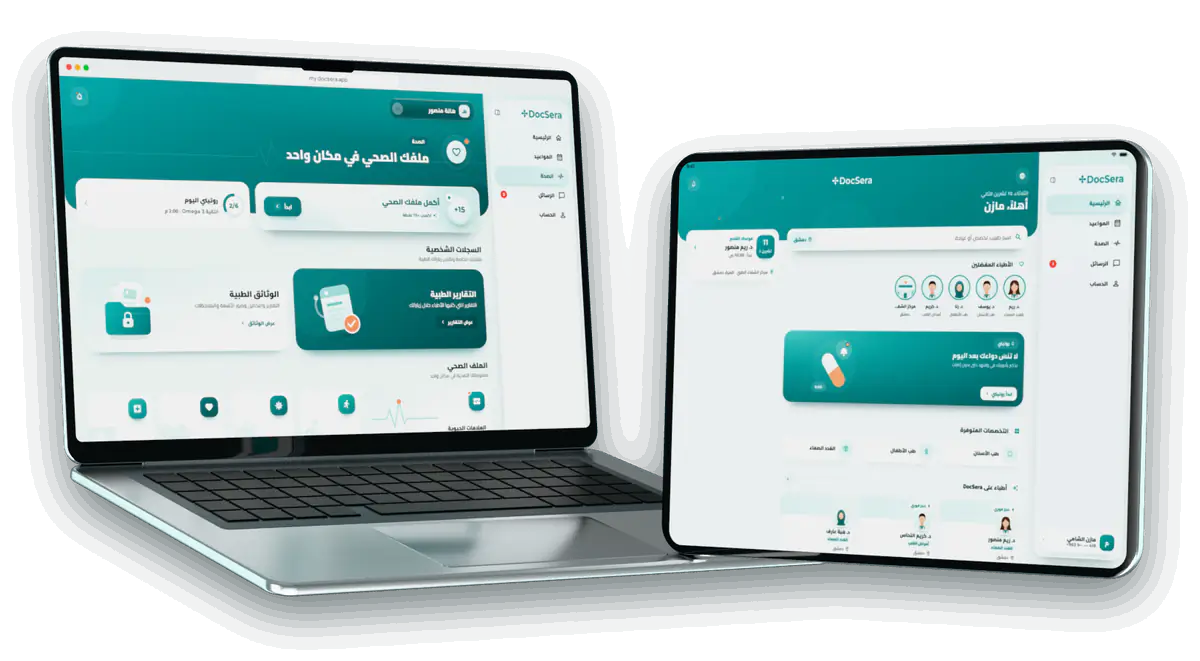
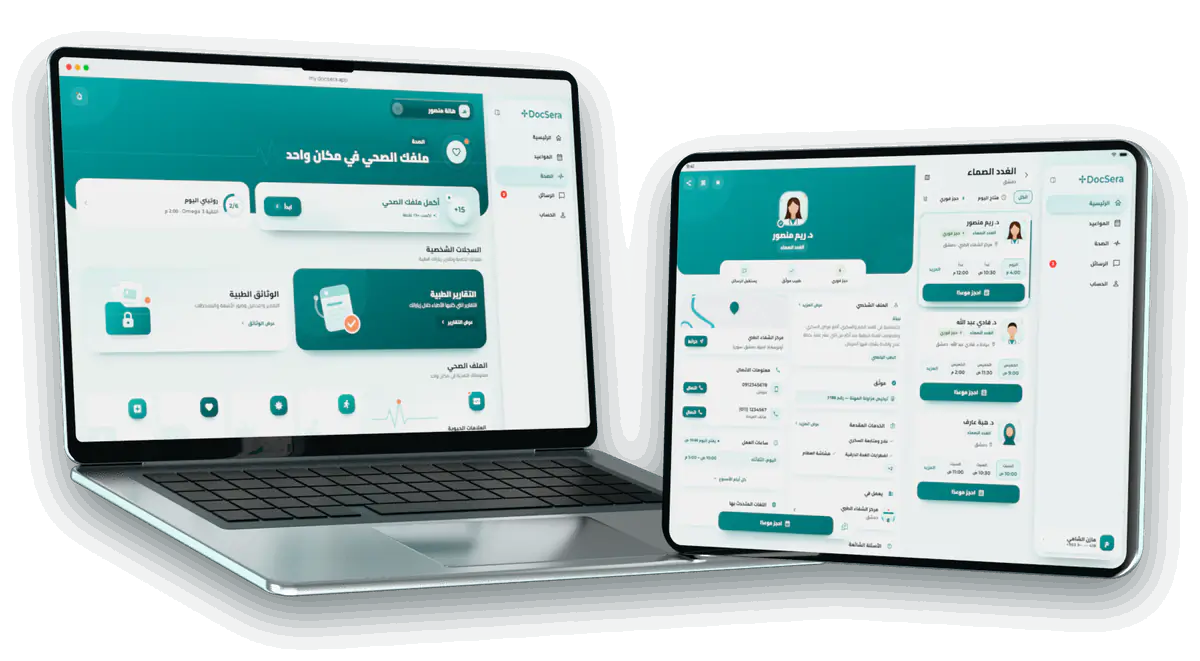
feat(home): iPad shows search beside a doctor; the try-it phone scrolls real full-length pages

diff --git a/src/scripts/home/boot.ts b/src/scripts/home/boot.ts
@@ -295,33 +295,89 @@ function startStory(): void {
 function startTry(): void {
 	const root = q('[data-try]');
 	if (!root) return;
-	const tabs = qa<HTMLButtonElement>('[data-tab]', root), shots = qa<HTMLImageElement>('[data-try-shot]', root);
-	const load = (i: number) => {
-		const s = shots[(i + shots.length) % shots.length];
-		if (s?.dataset.src) { s.src = s.dataset.src; s.removeAttribute('data-src'); }
+	const tabs = qa<HTMLButtonElement>('[data-tab]', root), pages = qa<HTMLElement>('[data-try-shot]', root);
+	const phone = root.querySelector<HTMLElement>('[data-try-phone]'), hint = root.querySelector<HTMLElement>('[data-try-hint]');
+	const status = root.querySelector<HTMLImageElement>('img[data-status]');
+	if (!phone || !hint || !pages.length) return;
+	const scrollers = pages.map((p) => p.querySelector<HTMLElement>('[data-pg-scroll]')!);
+	const n = pages.length;
+	// The first screen of a page comes with the tab; its full length only once the visitor takes the phone.
+	const load = (i: number) => pages[(i + n) % n].querySelectorAll<HTMLImageElement>('img[data-src]').forEach((img) => {
+		img.src = img.dataset.src || '';
+		img.removeAttribute('data-src');
+	});
+	const loadFull = (i: number) => {
+		const img = pages[i].querySelector<HTMLImageElement>('img[data-full]');
+		if (!img) return;
+		img.addEventListener('load', () => img.classList.add('in'), { once: true });
+		img.src = img.dataset.full || '';
+		img.removeAttribute('data-full');
 	};
-	let cur = 0, timer = 0, auto = true;
+	let cur = 0, timer = 0, auto = true, engaged = false, hinted = false, inView = false, canScroll = false;
+	const refreshHint = () => hint.classList.toggle('show', inView && !hinted && pages[cur].dataset.long === '1');
+	const engage = () => {
+		if (!engaged && status?.dataset.status) { status.src = status.dataset.status; status.removeAttribute('data-status'); }
+		engaged = true;
+		auto = false;
+		clearInterval(timer);
+		loadFull(cur);
+	};
 	const show = (i: number, scroll = false) => {
 		cur = i;
 		load(i); load(i + 1);
-		shots.forEach((s, k) => s.classList.toggle('on', k === i));
+		if (engaged) loadFull(i);
+		scrollers[i].scrollTop = 0;
+		phone.classList.remove('scrolled');
+		pages.forEach((p, k) => p.classList.toggle('on', k === i));
+		scrollers.forEach((s, k) => { s.tabIndex = k === i ? 0 : -1; });
 		tabs.forEach((t, k) => {
 			t.classList.toggle('on', k === i);
 			t.setAttribute('aria-pressed', String(k === i));
 		});
+		refreshHint();
 		if (scroll) {
 			const bar = tabs[i].parentElement!;
 			bar.scrollTo({ left: tabs[i].offsetLeft - bar.clientWidth / 2 + tabs[i].offsetWidth / 2, behavior: 'smooth' });
 		}
 	};
-	tabs.forEach((t, i) => t.addEventListener('click', () => { auto = false; clearInterval(timer); show(i, true); }));
+	tabs.forEach((t, i) => t.addEventListener('click', () => { engage(); show(i, true); }));
+	scrollers.forEach((s, i) => {
+		s.addEventListener('scroll', () => {
+			if (i !== cur) return;
+			phone.classList.toggle('scrolled', s.scrollTop > 26);
+			if (s.scrollTop > 8 && !hinted) { hinted = true; refreshHint(); }
+		}, { passive: true });
+		s.addEventListener('focus', engage);
+	});
+	// The phone scrolls only once it is on screen, so a thumb passing over it keeps moving the page.
+	new IntersectionObserver(([e]) => {
+		canScroll = e.intersectionRect.height >= Math.min(e.boundingClientRect.height, innerHeight) * 0.85;
+		phone.classList.toggle('can-scroll', canScroll);
+	}, { threshold: [0, 0.25, 0.5, 0.7, 0.85, 0.95, 1] }).observe(phone);
+	['touchstart', 'wheel'].forEach((ev) => phone.addEventListener(ev, () => { if (canScroll) engage(); }, { passive: true }));
+	// With a mouse: drag the page like a finger would.
+	let drag: { y: number; top: number } | null = null;
+	phone.addEventListener('pointerdown', (e) => {
+		if (e.pointerType !== 'mouse' || e.button !== 0 || !canScroll) return;
+		engage();
+		drag = { y: e.clientY, top: scrollers[cur].scrollTop };
+		phone.setPointerCapture(e.pointerId);
+		phone.classList.add('drag');
+	});
+	phone.addEventListener('pointermove', (e) => { if (drag) scrollers[cur].scrollTop = drag.top - (e.clientY - drag.y); });
+	const endDrag = () => { drag = null; phone.classList.remove('drag'); };
+	phone.addEventListener('pointerup', endDrag);
+	phone.addEventListener('pointercancel', endDrag);
 	const reduce = matchMedia('(prefers-reduced-motion: reduce)').matches;
 	new IntersectionObserver((es) => {
 		clearInterval(timer);
-		if (!es[0].isIntersecting) return;
+		inView = es[0].isIntersecting;
+		refreshHint();
+		if (!inView) return;
 		load(cur);
-		shots[cur].classList.add('on');
-		if (auto && !reduce) timer = window.setInterval(() => show((cur + 1) % shots.length, true), 2600);
+		pages[cur].classList.add('on');
+		scrollers[cur].tabIndex = 0;
+		if (auto && !reduce) timer = window.setInterval(() => show((cur + 1) % n, true), 2600);
 	}, { rootMargin: '200px 0px' }).observe(root);
 }
 
